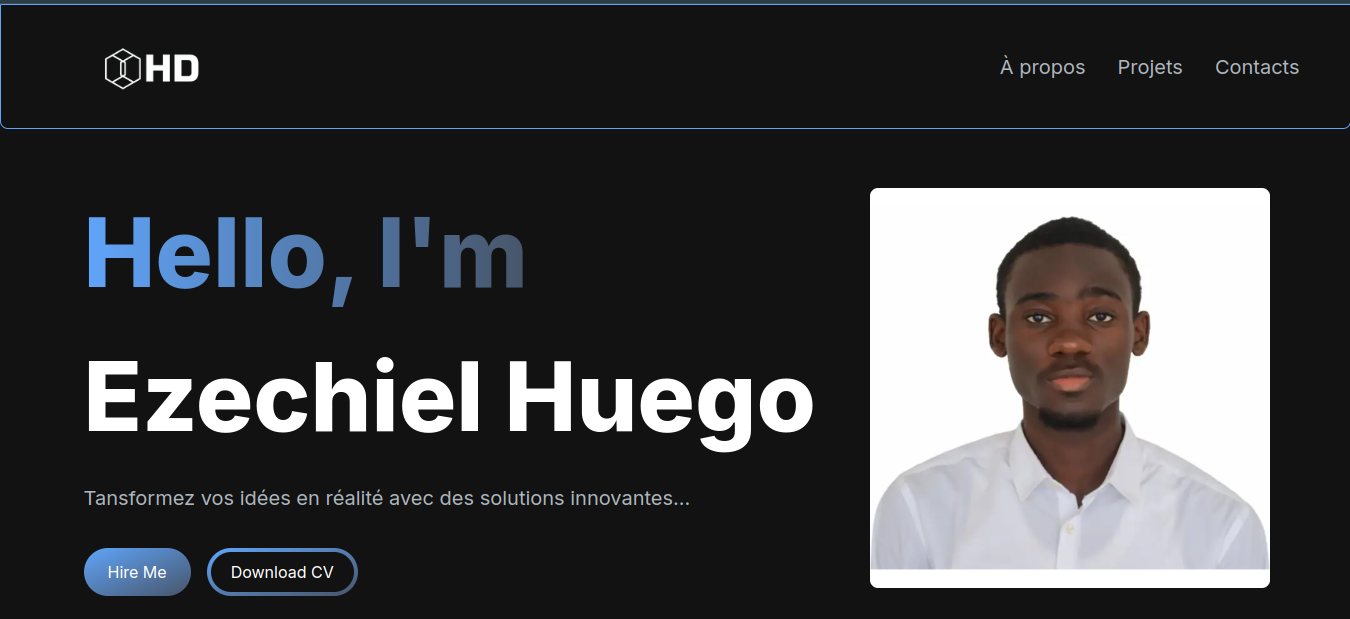
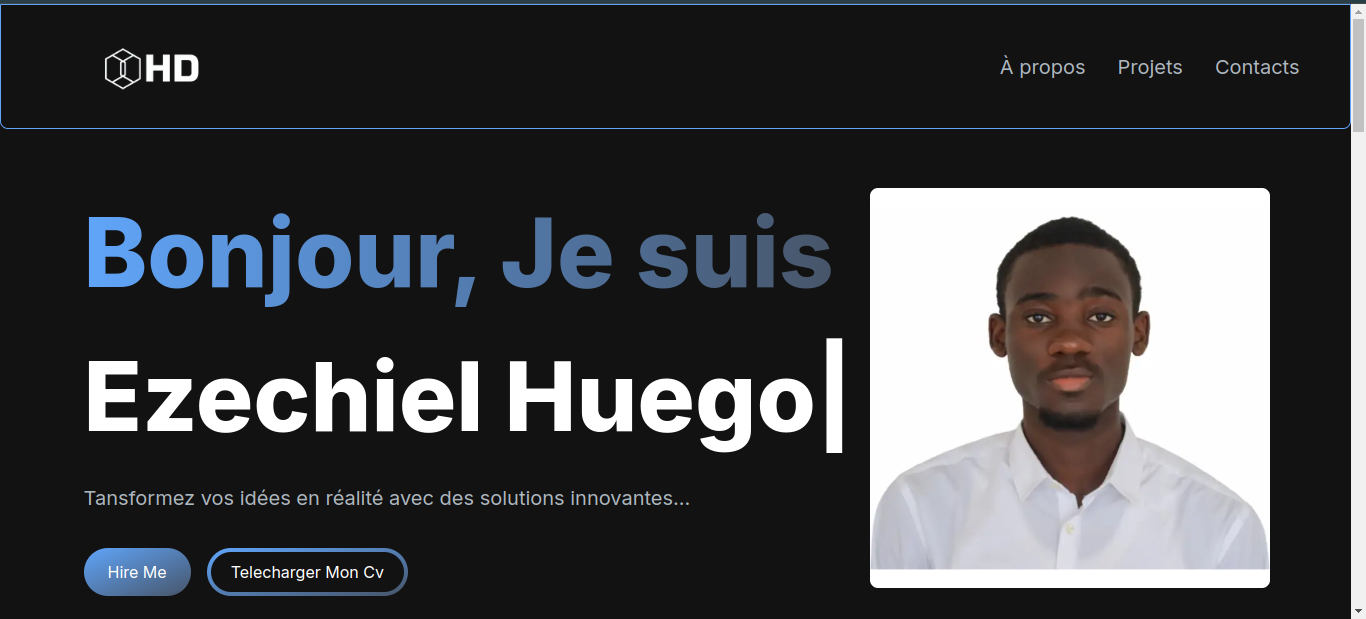
[UPDATE] portofolio modification

diff --git a/Portfolio_HD/src/app/components/HeroSection.jsx b/Portfolio_HD/src/app/components/HeroSection.jsx
@@ -17,7 +17,7 @@ const HeroSection = () => {
         >
           <h1 className="text-white mb-4 text-4xl sm:text-5xl lg:text-8xl lg:leading-normal font-extrabold">
             <span className="text-transparent bg-clip-text bg-gradient-to-r from-blue-400 to-blueGray-600">
-              Hello, I&apos;m{" "}
+              {/* Hi, I&apos;m{" "} */} Bonjour, Je suis
             </span>
             <br></br>
             <TypeAnimation
@@ -53,7 +53,7 @@ const HeroSection = () => {
               download
             >
               <span className="block bg-[#121212] hover:bg-slate-800 rounded-full px-5 py-2">
-                Download CV
+                Telecharger Mon Cv
               </span>
             </Link>
           </div>

diff --git a/Portfolio_HD/src/app/components/ProjectsSection.jsx b/Portfolio_HD/src/app/components/ProjectsSection.jsx
@@ -82,7 +82,7 @@ const ProjectsSection = () => {
   return (
     <section id="projects">
       <h2 className="text-center text-4xl font-bold text-white mt-4 mb-8 md:mb-12">
-        My Projects
+        Mes Projets
       </h2>
       <div className="text-white flex flex-row justify-center items-center gap-2 py-6">
         <ProjectTag
